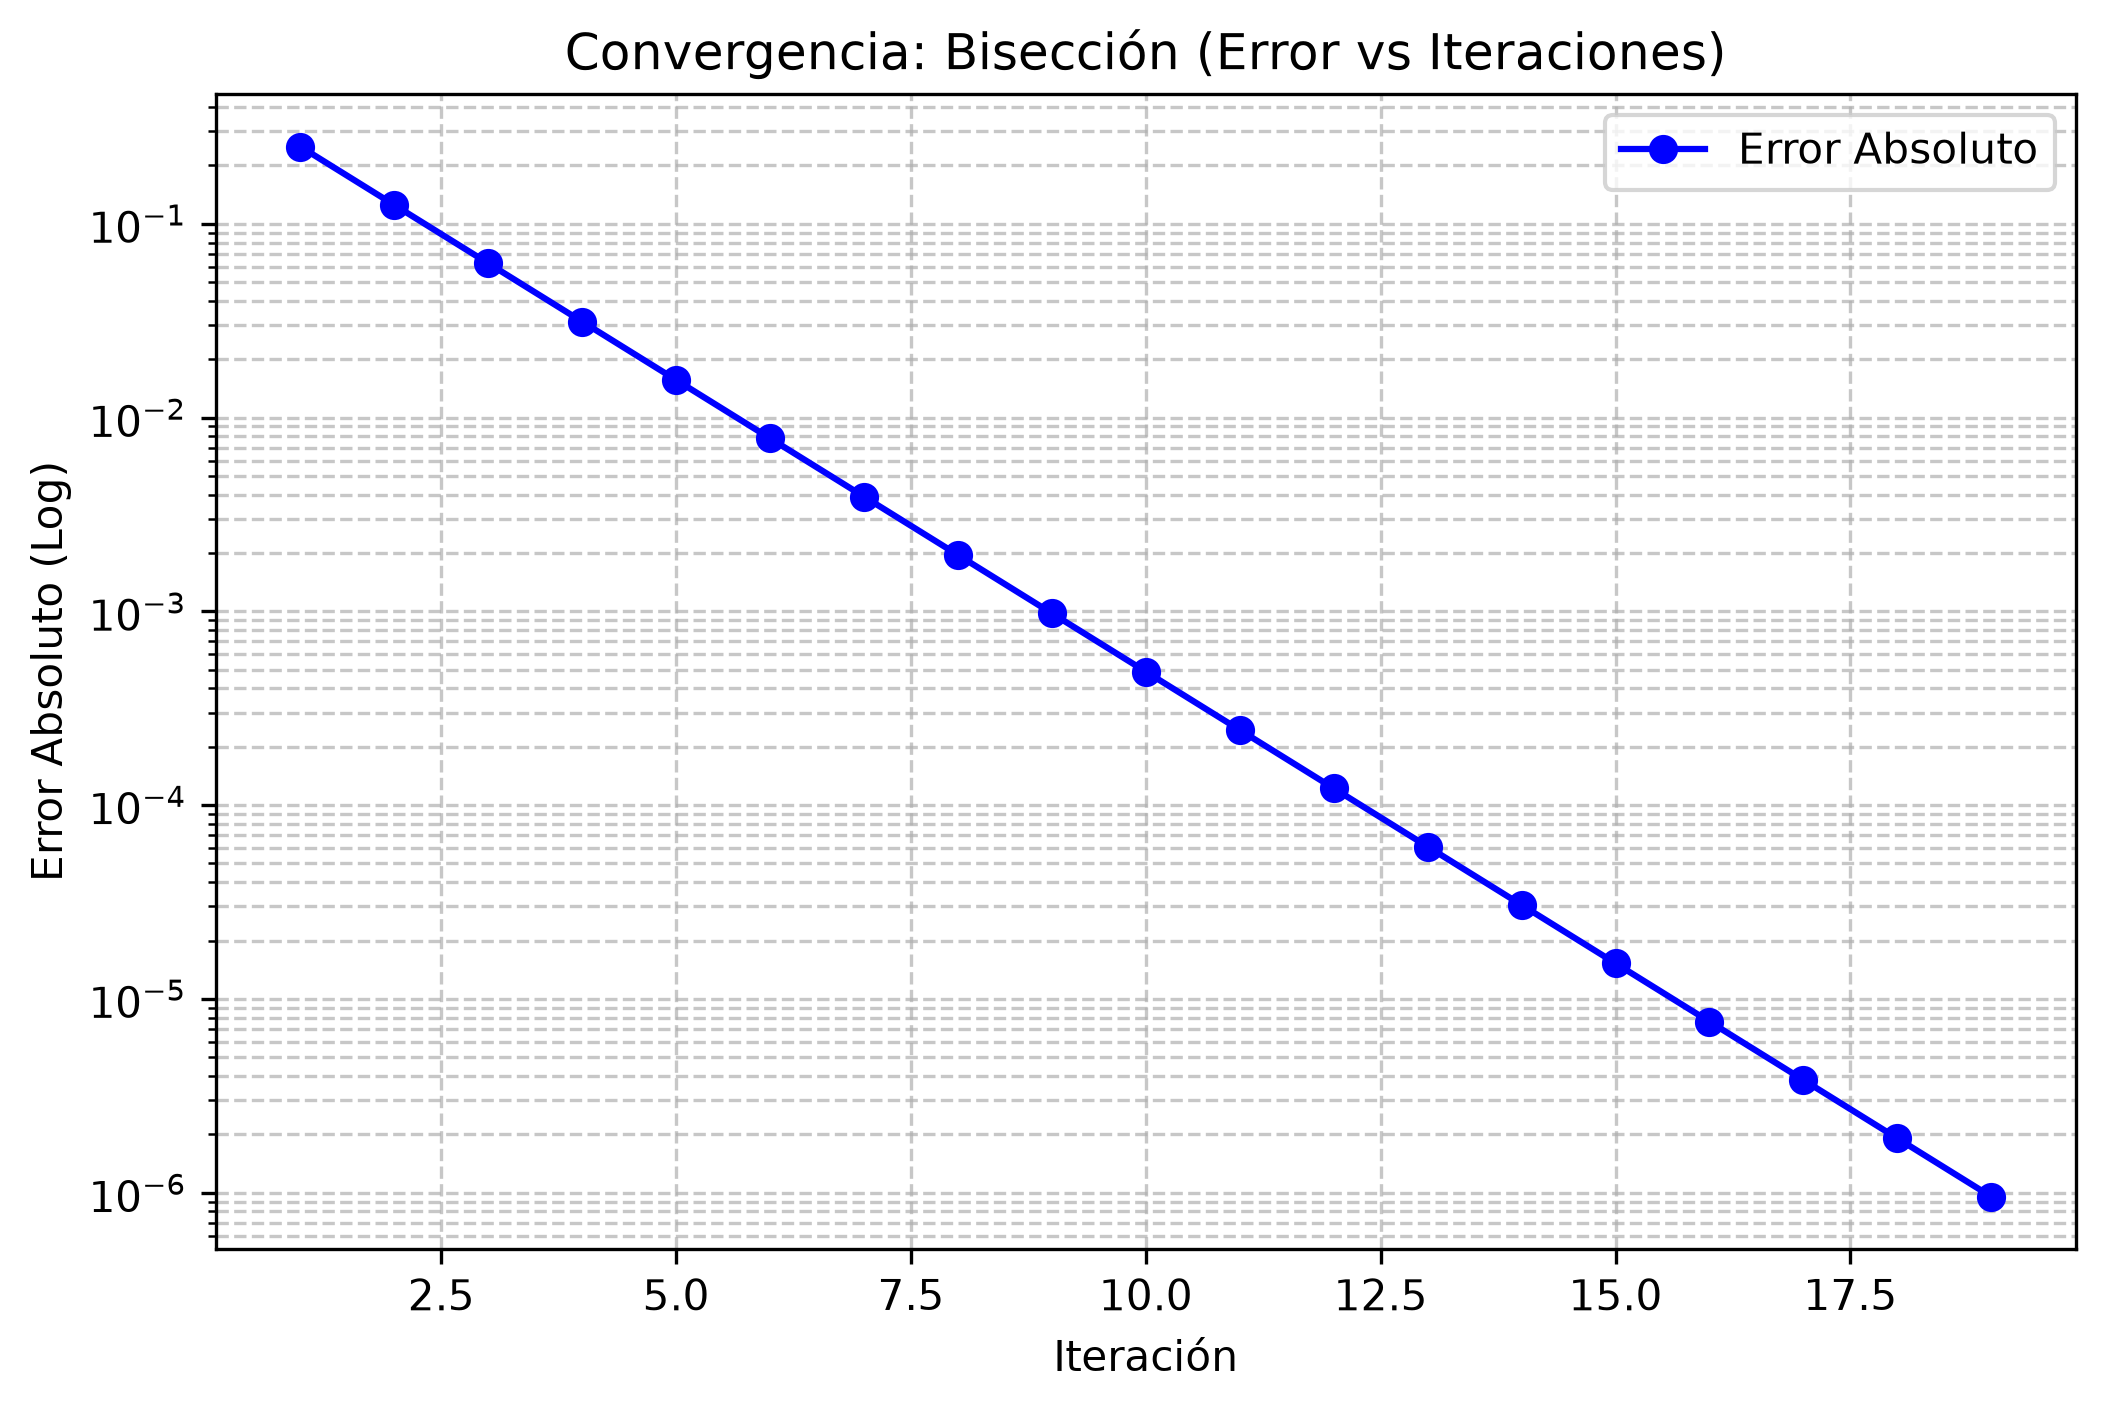
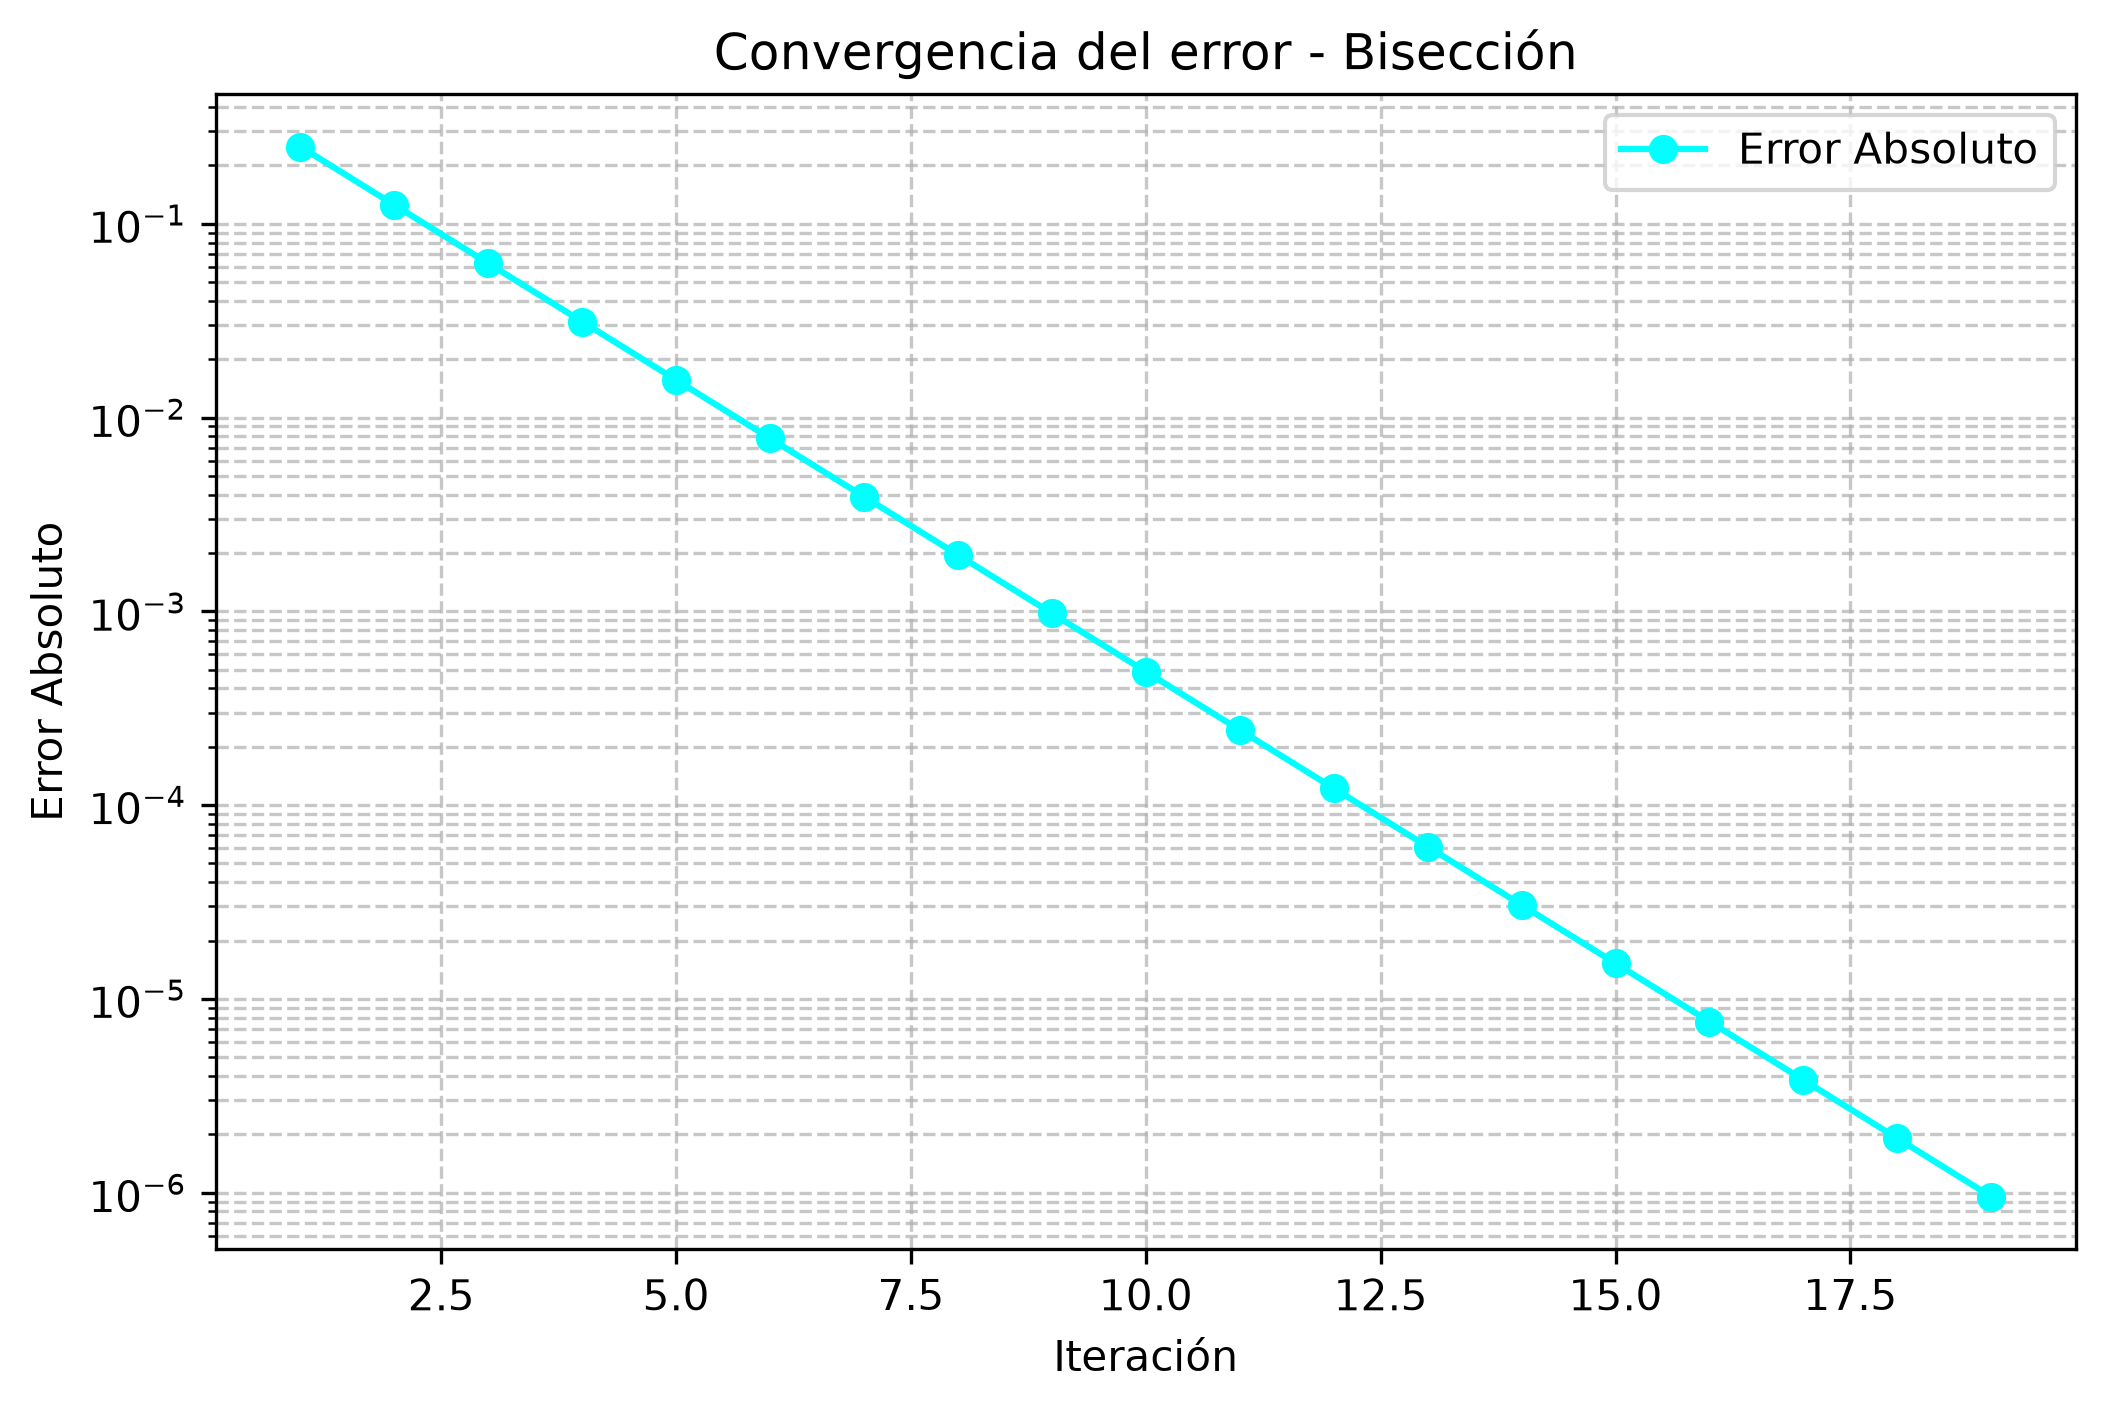
listo main
Corriendo main se ejecutan todos los demas codigos

diff --git a/src/scripts/main.py b/src/scripts/main.py
@@ -1,4 +1,26 @@
 import numpy as np
+import os
+import sys
+import subprocess
 
 if __name__ == "__main__":
-    pass
+
+    DIR_SCRIPTS = os.path.dirname(os.path.abspath(__file__))
+    DIR_ASSETS = os.path.abspath(os.path.join(DIR_SCRIPTS, '..', 'assets'))
+    DIR_DATA = os.path.abspath(os.path.join(DIR_SCRIPTS, '..', 'data'))
+    os.makedirs(DIR_ASSETS, exist_ok=True)
+    os.makedirs(DIR_DATA, exist_ok=True)
+
+    SCRIPTS_INDIVIDUALES = ["biseccion.py","falsa_posicion.py","punto_fijo.py","secante.py","Newthon-Raphson.py","Newthon-Raphson_upgraded.py",]
+    
+    entorno = os.environ.copy()
+    entorno["MPLBACKEND"] = "Agg"
+    for nombre in SCRIPTS_INDIVIDUALES:
+        ruta = os.path.join(DIR_SCRIPTS, nombre)
+        print(f"\n{'=' * 70}\n>>> Ejecutando {nombre}\n{'=' * 70}")
+        if not os.path.exists(ruta):
+            print(f"  [!] No se encontró {nombre}, se omite.")
+            continue
+        resultado = subprocess.run([sys.executable, ruta], cwd=DIR_SCRIPTS, env=entorno)
+        if resultado.returncode != 0:
+            print(f"  [!] {nombre} terminó con errores (código {resultado.returncode}).")
